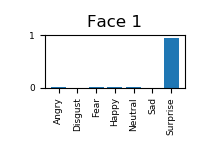
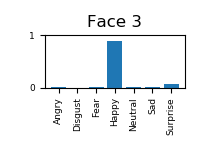
updated model names

diff --git a/demo/run_demo.py b/demo/run_demo.py
@@ -14,7 +14,7 @@ from flask import Flask, render_template, Response
 
 #i couldn't upload the models to github.  So please change this to where the model is
 model_dir = '../face_models/'
-face_model = Face_Model(model_dir, 'vggFace_finetune_val_loss_FER.json', 'vggFace_finetune_val_loss_1.105_63.1_FER.h5')
+face_model = Face_Model(model_dir, 'newData_vggFace_finetune_val_loss_0.98_64.4.json', 'newData_vggFace_finetune_val_loss_0.98_64.4.h5')
 
 app = Flask(__name__)
 
